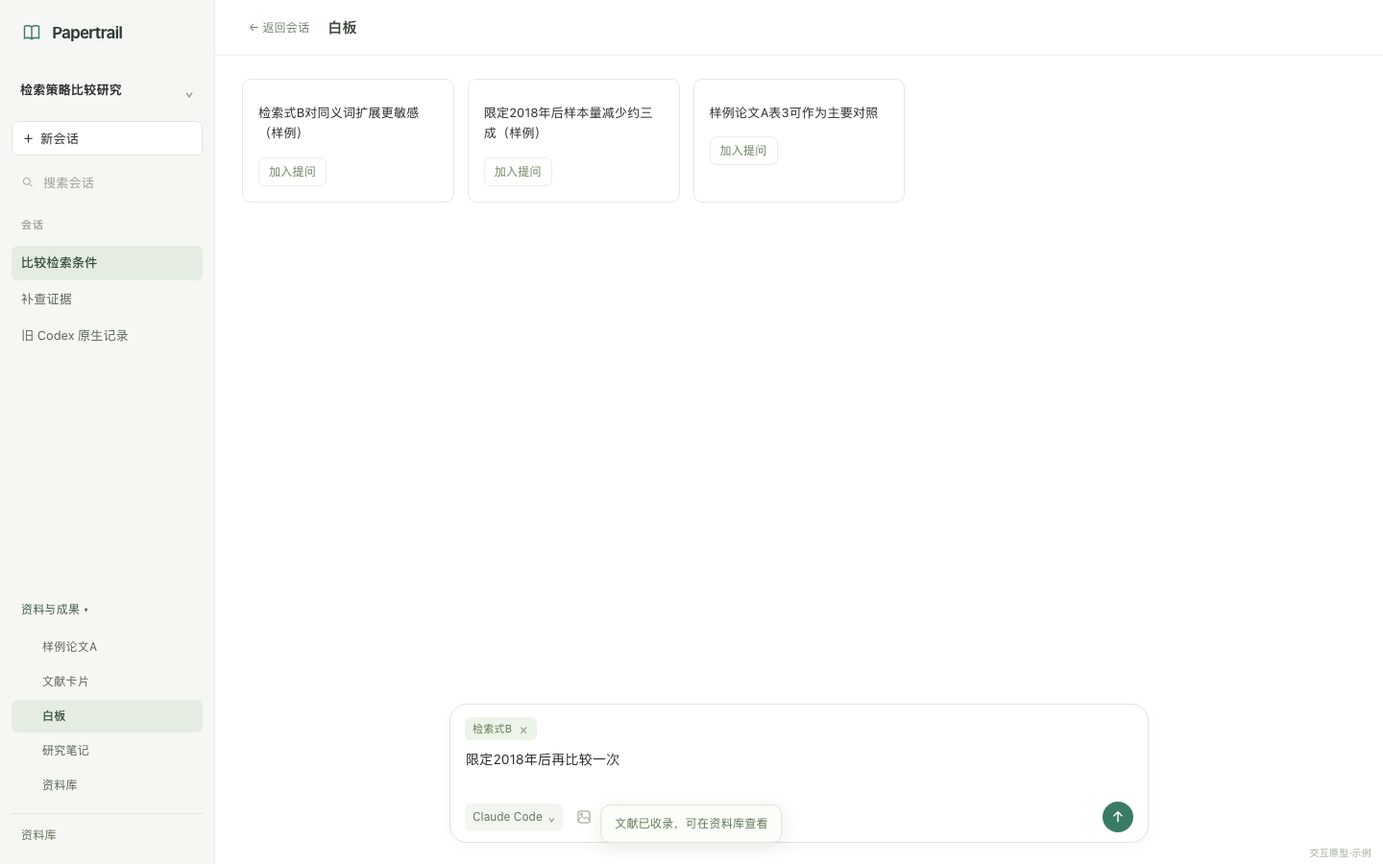
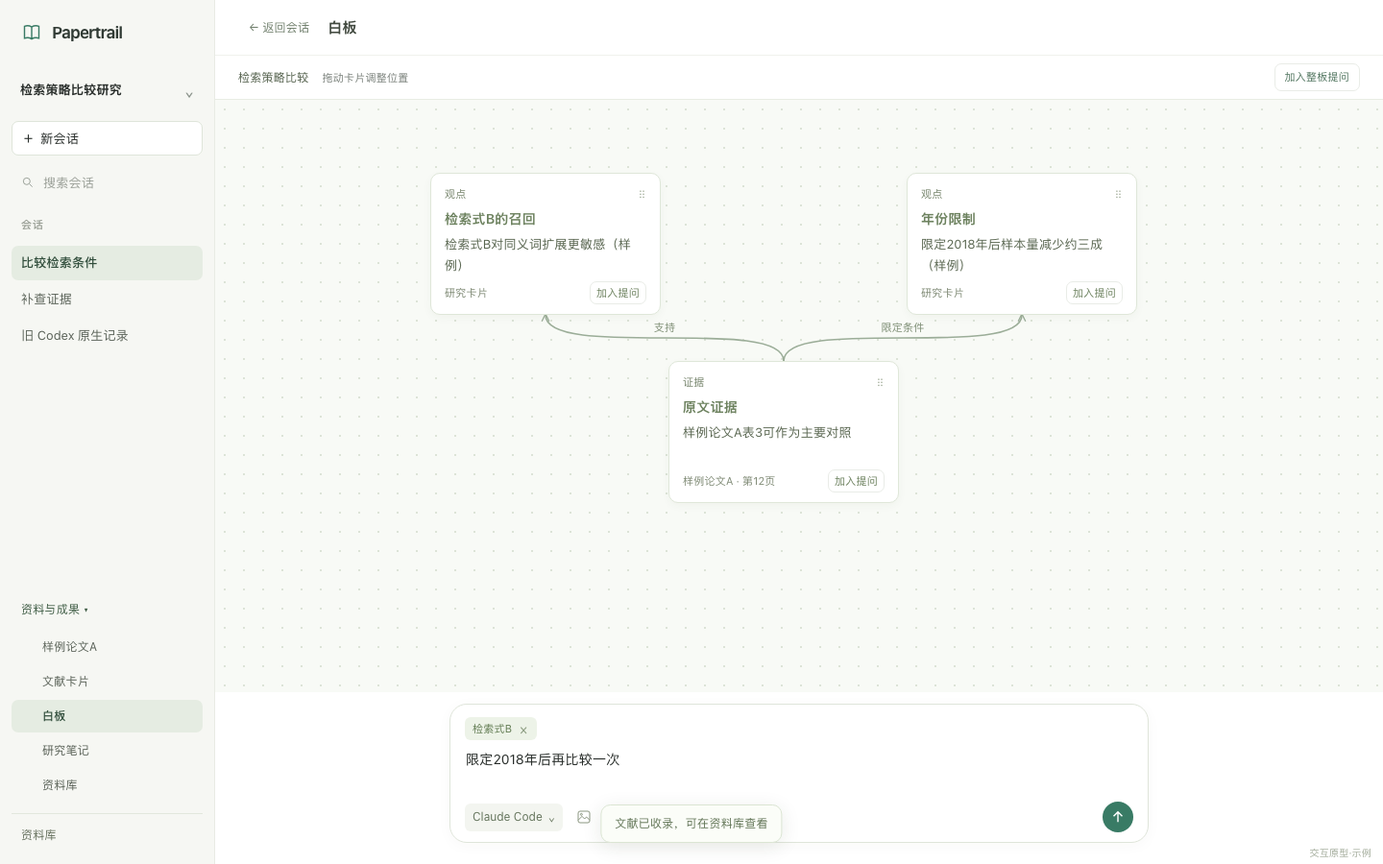
Make prototype whiteboard open cards and preserve question context

diff --git a/docs/agent-native-evolution/conversation-redesign/prototype.js b/docs/agent-native-evolution/conversation-redesign/prototype.js
@@ -2,7 +2,8 @@
 const $=s=>document.querySelector(s),E=s=>String(s).replace(/[&<>"]/g,c=>'&#'+c.charCodeAt(0)+';'),cl=n=>Math.max(1,Math.min(20,n));
 let nid=4,oc=0,opener=null,noticeTimer,doc='研究笔记（样例）\n\n一、检索式A与B在未限定年份时召回接近。\n二、待补：限定年份后的对照。';
 const st={cur:1,view:'chat',ref:0,page:12,ret:null,rs:'0'};
-const board=[{x:'检索式B对同义词扩展更敏感（样例）'},{x:'限定2018年后样本量减少约三成（样例）'},{x:'样例论文A表3可作为主要对照'}];
+const board=[{t:'检索式B的召回',x:'检索式B对同义词扩展更敏感（样例）',left:96,top:64},{t:'年份限制',x:'限定2018年后样本量减少约三成（样例）',left:592,top:64},{t:'原文证据',x:'样例论文A表3可作为主要对照',left:344,top:260}];
+const boardView={left:0,top:0,scale:1,card:0};
 const A=(x,a)=>({r:'a',a,st:'ok',x});
 const S=[
 {id:1,rs:'0',t:'比较检索条件',a:'Claude Code',m:[{r:'u',x:'比较检索式A和B在近五年文献中的召回差异'},A('初步看B召回更高，需要核对限定年份后的结果。','Codex')],d:'限定2018年后再比较一次',g:['检索式B']},
@@ -20,25 +21,30 @@ function bottom(){const v=$('#V');v.scrollTop=v.scrollHeight;cur().scroll=v.scro
 const quote=n=>n==12?'表3（样例数据）：限定2018年后，检索式B召回0.81，检索式A召回0.66。作者指出差异主要来自同义词扩展。':n==4?'方法（样例）：检索式A为标题关键词组合；检索式B加入同义词与主题词扩展。':`样例论文A第${n}页的示例正文，合成文本，仅用于演示阅读与引用。`;
 const pg=n=>`<div class=paper-kicker>RESEARCH NOTE · 示例文献</div><h3>检索扩展与证据覆盖</h3><p>本页比较两种检索策略在相同年份限制下的结果，并讨论它们的适用条件。</p><p><mark>${quote(n)}</mark></p><p>不同数据库与去重方式可能改变结果，跨任务比较仍需补充对照。</p><div class=paper-page>PDF 第 ${n} 页</div>`;
 const ANS=`<p><b>结论</b>：限定2018年后，检索式B召回仍高于A（0.81 对 0.66）。</p><ul><li>差异主要来自同义词扩展。</li><li>样本量下降，建议在另一数据库补查。</li></ul><p>依据 <button class=cite data-act=cite data-p=12>样例论文A · PDF第12页 ↗</button></p>`;
-const RES={pdf:'样例论文A',card:'文献卡片',board:'白板',doc:'研究笔记',library:'资料库'};
+const RES={pdf:'样例论文A',card:'文献卡片',board:'白板','board-card':'白板卡片',doc:'研究笔记',library:'资料库'};
 S[0].m[1].h='<p><b>检索式B的召回更高，但还不能直接把它当成更可靠的结论。</b></p><p>样例论文A的对照结果是B为0.81、A为0.66；实验中同时改变了同义词扩展，需把“检索数量”和“相关性”分开比较。</p><ul><li>先确认两组使用相同的年份、数据库与去重条件。</li><li>把不相关文献的比例作为独立变量再比较一次。</li></ul><p>核对依据 <button class="cite" data-act="cite" data-p="12">样例论文A · PDF第12页 ↗</button></p>';
 function candidate(){return '<div class="source-result"><div><strong>检索扩展的跨库对照（样例B）</strong><span class="mut">题录与摘要 · 尚无全文</span></div><button data-act="keep" '+(collected?'disabled':'')+'>'+(collected?'已收录':'收录文献')+'</button></div>'}
 
+function boardLinks(){const [a,b,c]=board,point=n=>[n.left+120,n.top];return [a,b].map((n,i)=>{const [x,y]=point(n),[cx,cy]=point(c);return `<path d="M ${cx} ${cy} C ${cx} ${cy-48}, ${x} ${y+196}, ${x} ${y+148}" marker-end="url(#board-arrow)"/><text x="${(cx+x)/2}" y="${(cy+y+148)/2-7}" text-anchor="middle">${i?'限定条件':'支持'}</text>`}).join('')}
+function boardCanvas(){return `<div class="board-wrap"><div class="board-toolbar"><span>检索策略比较</span><span class=mut>拖动卡片调整位置</span><button data-act=add data-t="研究白板" data-card=all>加入整板提问</button></div><div id=board-viewport tabindex=0 aria-label="白板画布"><div id=board-space><div class="cards board-stage" id=board-canvas><svg class=board-links viewBox="0 0 960 440" aria-label="卡片关系"><defs><marker id=board-arrow viewBox="0 0 10 10" refX=8 refY=5 markerWidth=6 markerHeight=6 orient=auto-start-reverse><path d="M 1 1 L 9 5 L 1 9"/></marker></defs><g id=board-paths>${boardLinks()}</g></svg>${board.map((b,i)=>`<article class="card board-node" data-node=${i} style="left:${b.left}px;top:${b.top}px"><div class=board-node-head data-drag=${i}><span class=board-kind>${i==2?'证据':'观点'}</span><span aria-hidden=true>⠿</span></div><button class=board-open data-act=boardcard data-i=${i} aria-label="打开卡片：${E(b.t)}"><strong>${E(b.t)}</strong><p>${E(b.x)}</p></button><div class=board-node-foot><span>${i==2?'样例论文A · 第12页':'研究卡片'}</span><button data-act=add data-t="白板卡片${i+1}" data-card=${i}>加入提问</button></div></article>`).join('')}</div></div></div></div>`}
+function fitBoard(){const v=$('#board-viewport');if(!v)return;boardView.scale=Math.min(1,Math.max(.85,Math.min((v.clientWidth-32)/960,(v.clientHeight-24)/440)));$('#board-canvas').style.transform=`scale(${boardView.scale})`;$('#board-space').style.width=960*boardView.scale+'px';$('#board-space').style.height=440*boardView.scale+'px';v.scrollLeft=boardView.left;v.scrollTop=boardView.top}
+function rememberBoard(){const v=$('#board-viewport');if(v){boardView.left=v.scrollLeft;boardView.top=v.scrollTop}}
 function rows(){const q=$('#q').value.trim(),L=S.filter(s=>s.rs==st.rs&&s.t.includes(q));
 $('#rows').innerHTML=L.length?L.map(s=>`<button class="row${s.id==st.cur?' on':''}${s.un?' un':''}" data-act=go data-id=${s.id} aria-label="${E(s.t)}${s.un?'，有新回复':''}${s.run?'，处理中':''}"${s.id==st.cur?' aria-current=true':''}><span>${E(s.t)}</span>${s.run?'<i class=sp></i>':s.un?'<i class=dot></i>':''}</button>`).join(''):'<div class=mut style="padding:6px 8px">没有匹配的会话</div>';
-$('#lib').innerHTML=Object.entries(RES).map(([k,v])=>`<button class="row${st.view==k?' on':''}" data-act=open data-v=${k}><span>${v}</span></button>`).join('')}
+$('#lib').innerHTML=Object.entries(RES).filter(([k])=>k!='board-card').map(([k,v])=>`<button class="row${st.view==k?' on':''}" data-act=open data-v=${k}><span>${v}</span></button>`).join('')}
 function msg(m,i){if(m.r=='u')return`<div class=u>${E(m.x)}${m.g&&m.g.length?'<div>'+m.g.map(t=>`<span class=chip>${E(t)}</span>`).join('')+'</div>':''}</div>`;
 return`<div class=a id=m${i}><div class=n>${E(m.a)}</div>${m.st=='run'?'<p class=mut role="status">正在查阅资料…</p>':['fail','stopped'].includes(m.st)?`<p class=err>${m.st=='stopped'?'已停止，已完成内容保留。':'连接中断，尚未完成。'} <button data-act=retry data-i=${i}>重试</button></p>`:m.h?m.h+candidate():`<p>${E(m.x)}</p>`}</div>`}
 function res(v){if(v=='library')return `<div class=w><p class=mut>本研究资料</p><div class=source-result><div><strong>样例论文A</strong><span class=mut>已保存 PDF</span></div><button data-act=open data-v=pdf>阅读</button></div>${collected?'<div class=source-result><div><strong>检索扩展的跨库对照（样例B）</strong><span class=mut>已收录 · 题录与摘要</span></div><button data-act=open data-v=card>查看</button></div>':'<p class=mut>会话里收录的文献会出现在这里。</p>'}</div>`;if(v=='pdf')return`<div class=w><div class=bar><button data-act=pg data-d=-1 aria-label="上一页">‹</button><span>第 ${st.page} / 20 页</span><button data-act=pg data-d=1 aria-label="下一页">›</button><button data-act=add data-t="样例论文A·第${st.page}页">加入本页提问</button></div><div class=pg>${pg(st.page)}</div></div>`;
-if(v=='board')return`<div class=cards>${board.map((b,i)=>`<div class=card><p>${E(b.x)}</p><button data-act=add data-t="白板卡片${i+1}">加入提问</button></div>`).join('')}</div>`;
+if(v=='board')return boardCanvas();
+if(v=='board-card'){const i=boardView.card,b=board[i];return `<div class="w board-card-detail"><p class=mut>${i==2?'原文证据':'研究卡片'}</p><h2>${E(b.t)}</h2><textarea id=board-card-body aria-label="卡片正文">${E(b.x)}</textarea><div class=board-detail-foot><button data-act=add data-t="白板卡片${i+1}" data-card=${i}>加入提问</button><button class=cite data-act=cite data-p=12>样例论文A · PDF第12页 ↗</button><span class=mut>修改已保留 · 本次演示</span></div></div>`}
 if(v=='doc')return`<div class=w style="max-width:none"><div class=bar style="margin-bottom:8px"><span class=mut>自动保存</span><button data-act=add data-t="研究笔记（文稿）">加入提问</button></div><textarea id=doc aria-label="文稿正文">${E(doc)}</textarea></div>`;
 return`<div class=w><div class=card><b>样例论文A</b><p class=mut>样例 · 作者甲、作者乙 · 2021 · 自制样例，无DOI</p><p>研究检索式扩展对召回的影响。</p><button data-act=cite data-p=1>打开PDF</button></div></div>`}
 function main(){const s=cur(),v=st.view;let h='<button class=tg data-act=nav aria-label="展开侧栏">☰</button>';
 if(v=='chat'){const r=s.ret?.v;if(r)h+=`<button class=return-link data-act=return>← 回到${RES[r]}</button>`;h+=`<h1>${E(s.t)}</h1>`;
 $('#V').innerHTML=`<div class=w id=thread>${s.m.map(msg).join('')||'<div class=empty-chat><h2>想弄清楚什么？</h2><p class=mut>从一个问题开始，资料和结果都留在这段对话里。</p></div>'}</div>`}
-else{h+=`<button class=return-link data-act=chat>← 返回会话${s.un?' · 新回复':''}</button><h1>${RES[v]}</h1>`;$('#V').innerHTML=res(v)}
-$('#hd').innerHTML=h;$('#to').innerHTML='';if(v=='chat')$('#V').scrollTop=s.scroll||0;chips();bar()}
-function chips(){$('#chips').innerHTML=cur().g.map((t,i)=>`<span class=chip>${E(t)}<button data-act=rm data-i=${i} aria-label="移除${E(t)}">×</button></span>`).join('')}
+else{h+=v=='board-card'?`<button class=return-link data-act=boardback>← 返回白板</button><h1>${E(board[boardView.card].t)}</h1>`:`<button class=return-link data-act=chat>← 返回会话${s.un?' · 新回复':''}</button><h1>${RES[v]}</h1>`;$('#V').innerHTML=res(v)}
+$('#hd').innerHTML=h;$('#to').innerHTML='';if(v=='chat')$('#V').scrollTop=s.scroll||0;chips();bar();if(v=='board')fitBoard()}
+function chips(){$('#chips').innerHTML=cur().g.map((t,i)=>`<span class=chip><span title="${E(t)}">${E(t)}</span><button data-act=rm data-i=${i} aria-label="移除${E(t)}">×</button></span>`).join('')}
 function bar(){const s=cur();$('#ab').innerHTML=E(s.a)+' <span aria-hidden="true">⌄</span>';$('#ab').disabled=!!s.run;$('#hint').textContent='';$('#sb').innerHTML=s.run?'■':sendIcon;$('#sb').setAttribute('aria-label',s.run?'停止回答':'发送');$('#sb').disabled=!s.run&&!ta.value.trim();$('#latest').hidden=!s.un;}
 function ref(){const R=$('#R');document.body.classList.toggle('ro',!!st.ref);$('#G').classList.toggle('nr',!st.ref);R.hidden=!st.ref;if(!st.ref)return;
 R.innerHTML=`<div class=rh><b>样例论文A <span class=mut>· 第${st.ref}页</span></b><button data-act=full>全文阅读</button><button data-act=add data-t="样例论文A·第${st.ref}页">加入提问</button><button data-act=x aria-label="关闭原文">×</button></div><div style="overflow:auto"><div class=pg>${pg(st.ref)}</div><div class=bar style="padding:0 12px"><button data-act=rp data-d=-1 aria-label="上一页">‹</button><button data-act=rp data-d=1 aria-label="下一页">›</button></div></div>`}
@@ -53,21 +59,23 @@ const act={
 go(b){st.cur=+b.dataset.id;st.view='chat';const s=cur(),u=s.un;s.un=0;ta.value=s.d;st.ref=smallScreen()?0:s.reference||0;openMenu(0);closeNav();render();const as=document.querySelectorAll('#V .a');u&&as.length?as[as.length-1].scrollIntoView({block:'start'}):($('#V').scrollTop=s.scroll||0)},
 new(){const s={id:++nid,rs:st.rs,t:'新会话',a:cur().a,m:[],d:'',g:[]};S.unshift(s);act.go({dataset:{id:s.id}});ta.focus()},
 lib(b){const l=$('#lib'),o=l.hidden;l.hidden=!o;b.setAttribute('aria-expanded',o);b.textContent='资料与成果 '+(o?'▾':'▸')},
-open(b){if(st.view=='chat')cur().scroll=$('#V').scrollTop;st.view=b.dataset.v;if(st.view=='pdf'&&st.ref){st.page=st.ref;st.ref=0}if(['board','doc','library'].includes(st.view))st.ref=0;closeNav();render();$('#V').scrollTop=0},
-chat(){st.view='chat';const unread=cur().un;cur().un=0;st.ref=smallScreen()?0:cur().reference||0;render();if(unread)bottom()},
+open(b){rememberBoard();if(st.view=='chat')cur().scroll=$('#V').scrollTop;st.view=b.dataset.v;if(st.view=='pdf'&&st.ref){st.page=st.ref;st.ref=0}if(['board','doc','library'].includes(st.view))st.ref=0;closeNav();render();$('#V').scrollTop=0},
+boardcard(b){rememberBoard();boardView.card=+b.dataset.i;st.view='board-card';render();$('#board-card-body').focus()},
+boardback(){st.view='board';st.ref=0;render()},
+chat(){rememberBoard();st.view='chat';const unread=cur().un;cur().un=0;st.ref=smallScreen()?0:cur().reference||0;render();if(unread)bottom()},
 cite(b){opener=b;st.ref=+b.dataset.p;cur().reference=st.ref;closeNav();ref();$('#R [data-act=x]').focus()},
 full(){cur().scroll=$('#V').scrollTop;st.page=st.ref;st.ref=0;st.view='pdf';render()},
 x(){st.ref=0;cur().reference=0;ref();(opener&&document.contains(opener)?opener:ta).focus()},
 rp(b){st.ref=cl(st.ref+ +b.dataset.d);cur().reference=st.ref;ref()},
 pg(b){st.page=cl(st.page+ +b.dataset.d);main()},
-add(b){const g=cur().g,t=b.dataset.t;if(!g.includes(t))g.push(t);chips();b.textContent='已加入'},
+add(b){const g=cur().g,i=b.dataset.card,t=i=='all'?'研究白板：'+board.map(n=>n.t+'：'+n.x).join('；'):i!==undefined?b.dataset.t+' · '+board[+i].x:b.dataset.t;if(!g.includes(t))g.push(t);chips();b.textContent='已加入'},
 rm(b){cur().g.splice(+b.dataset.i,1);chips();ta.focus()},
 menu(){openMenu($('#menu').hidden)},
 pick(b){cur().a=b.dataset.n;openMenu(0);bar();$('#ab').focus()},
 conn(){oc=1;openMenu(1);notice('示例连接已就绪')},
 fork(b){const s=cur(),n={id:++nid,rs:s.rs,t:s.t+' · '+b.dataset.n,a:b.dataset.n,m:[],d:ta.value,g:[...s.g]};S.splice(S.indexOf(s)+1,0,n);act.go({dataset:{id:n.id}});ta.focus()},
 send(){const s=cur(),x=ta.value.trim();if(s.run){clearTimeout(s.timer);s.run=0;const m=s.m.at(-1);m.st='stopped';render();return}if(!x)return;if(!s.m.length&&s.t=='新会话')s.t=x.slice(0,24);s.m.push({r:'u',x,g:s.g});s.g=[];s.d='';ta.value='';
-if(st.view!='chat'){s.ret={v:st.view,page:st.page,scroll:$('#V').scrollTop};if(st.view=='pdf'){st.ref=st.page;s.reference=st.ref}else{st.ref=0;s.reference=0}st.view='chat'}
+if(st.view!='chat'){rememberBoard();s.ret={v:st.view,page:st.page,scroll:$('#V').scrollTop};if(st.view=='pdf'){st.ref=st.page;s.reference=st.ref}else{st.ref=0;s.reference=0}st.view='chat'}
 if(smallScreen())st.ref=0;const m={r:'a',a:s.a,f:/模拟失败/.test(x)};s.m.push(m);run(s,m);render();bottom();ta.focus()},
 retry(b){const s=cur();run(s,s.m[+b.dataset.i]);render()},
 keep(){if(collected)return;collected=true;const top=$('#V').scrollTop;main();$('#V').scrollTop=top;notice('文献已收录，可在资料库查看')},
@@ -83,7 +91,13 @@ document.addEventListener('click',e=>{const b=e.target.closest('[data-act]');if(
 if($('#L').classList.contains('on')&&!e.target.closest('#L')&&!(b&&b.dataset.act=='nav'))closeNav();if(b&&!b.disabled&&act[b.dataset.act])act[b.dataset.act](b)});
 document.addEventListener('keydown',e=>{if(e.key=='Escape'){if(!$('#research-menu').hidden){$('#research-menu').hidden=true;$('#rs').setAttribute('aria-expanded',false);$('#rs').focus()}else if(!$('#menu').hidden){openMenu(0);$('#ab').focus()}else if(st.ref)act.x();else closeNav(1)}
 if(e.key=='Enter'&&!e.shiftKey&&e.target==ta&&!e.isComposing){e.preventDefault();act.send()}});
-document.addEventListener('input',e=>{if(e.target.id=='doc')doc=e.target.value});
+document.addEventListener('input',e=>{if(e.target.id=='doc')doc=e.target.value;if(e.target.id=='board-card-body')board[boardView.card].x=e.target.value});
+let drag=null;
+document.addEventListener('pointerdown',e=>{const handle=e.target.closest('[data-drag]');if(!handle||e.button!==0)return;const i=+handle.dataset.drag;drag={handle,i,x:e.clientX,y:e.clientY,left:board[i].left,top:board[i].top};handle.setPointerCapture(e.pointerId);handle.closest('.board-node').classList.add('dragging');e.preventDefault()});
+document.addEventListener('pointermove',e=>{if(!drag)return;const b=board[drag.i];b.left=Math.max(8,Math.min(712,drag.left+(e.clientX-drag.x)/boardView.scale));b.top=Math.max(8,Math.min(284,drag.top+(e.clientY-drag.y)/boardView.scale));const n=drag.handle.closest('.board-node');n.style.left=b.left+'px';n.style.top=b.top+'px';$('#board-paths').innerHTML=boardLinks()});
+function stopDrag(){if(drag){drag.handle.closest('.board-node').classList.remove('dragging');drag=null}}
+document.addEventListener('pointerup',stopDrag);document.addEventListener('pointercancel',stopDrag);
+new ResizeObserver(()=>{if(st.view=='board')fitBoard()}).observe($('#V'));
 ta.oninput=()=>{cur().d=ta.value;bar()};$('#q').oninput=rows;
 
 ta.value=cur().d;render();

diff --git a/docs/agent-native-evolution/conversation-redesign/prototype.css b/docs/agent-native-evolution/conversation-redesign/prototype.css
@@ -167,6 +167,8 @@ input, textarea { min-width: 0; }
 .chip { display: inline-flex; align-items: center; gap: 3px; max-width: 100%; padding: 3px 5px 3px 8px; border-radius: 6px; background: #edf3e8; color: #627c53; font-size: 11px; line-height: 1.5; }
 .chip button { width: 18px; min-height: 18px; height: 18px; padding: 0; border: 0; border-radius: 4px; background: transparent; color: #8a9b7f; font-size: 14px; }
 .chip button:hover { border: 0; background: #e0e9d8; color: #506a43; }
+.chip > span { min-width: 0; overflow: hidden; text-overflow: ellipsis; white-space: nowrap; }
+.chip > button { flex: none; }
 #ta { display: block; width: 100%; height: 51px; min-height: 44px; max-height: 180px; margin: 0 0 6px; padding: 0 1px; border: 0; background: transparent; outline: 0; resize: none; font-size: 14px; line-height: 1.8; }
 #ta:focus-visible { outline: 0; }
 .bar { display: flex; align-items: center; gap: 8px; min-width: 0; }
@@ -220,6 +222,35 @@ input, textarea { min-width: 0; }
 .card { padding: 16px; border: 1px solid #e5e9df; border-radius: 9px; background: #fff; font-size: 13px; }
 .card p { margin: 8px 0 14px; }
 .card button { min-height: 27px; color: #6d825f; font-size: 12px; }
+.board-wrap { display: flex; flex-direction: column; height: 100%; min-height: 400px; background: #f8faf6; }
+.board-toolbar { display: flex; align-items: center; flex: none; gap: 14px; min-height: 46px; padding: 8px 24px; border-bottom: 1px solid #e8ece3; background: #fff; color: #576450; font-size: 12px; }
+.board-toolbar .mut { font-size: 11px; }
+.board-toolbar > button { margin-left: auto; min-height: 27px; font-size: 11px; color: #527660; }
+#board-viewport { flex: 1; min-height: 0; overflow: auto; padding: 12px 16px; background-image: radial-gradient(#dce3d7 .8px, transparent .8px); background-size: 20px 20px; }
+#board-space { position: relative; margin: 0 auto; }
+.cards.board-stage { position: absolute; display: block; width: 960px; height: 440px; padding: 0; transform-origin: top left; }
+.board-links { position: absolute; inset: 0; width: 100%; height: 100%; overflow: visible; pointer-events: none; }
+.board-links path { fill: none; stroke: #9bad98; stroke-width: 1.6; }
+.board-links marker path { stroke: #9bad98; stroke-width: 1.4; }
+.board-links text { fill: #7e8e75; stroke: #f8faf6; stroke-width: 6px; paint-order: stroke; font-size: 11px; }
+.board-node { position: absolute; width: 240px; height: 148px; padding: 12px 14px; border-color: #dfe7d9; border-radius: 10px; box-shadow: 0 3px 10px rgb(50 70 35 / 4%); }
+.board-node:hover { border-color: #abc2a5; box-shadow: 0 4px 16px rgb(50 70 35 / 7%); }
+.board-node.dragging { z-index: 2; box-shadow: 0 8px 22px rgb(50 70 35 / 12%); }
+.board-node-head { display: flex; justify-content: space-between; align-items: center; height: 19px; color: #a2ad99; cursor: grab; touch-action: none; user-select: none; }
+.board-node-head:active { cursor: grabbing; }
+.board-kind { color: #78866e; font-size: 11px; }
+.board-node .board-open { display: block; width: 100%; min-height: 0; margin: 4px 0 0; padding: 0; border: 0; border-radius: 3px; background: transparent; text-align: left; }
+.board-node .board-open:hover { background: transparent; color: #397b65; }
+.board-open strong { font-size: 14px; font-weight: 600; }
+.board-open p { display: -webkit-box; overflow: hidden; margin: 5px 0 0; -webkit-line-clamp: 2; -webkit-box-orient: vertical; color: #596650; font-size: 13px; line-height: 1.65; }
+.board-node-foot { position: absolute; inset: auto 14px 10px; display: flex; align-items: center; justify-content: space-between; gap: 8px; color: #7f8a75; font-size: 11px; }
+.board-node-foot button { min-height: 24px; padding: 2px 6px; font-size: 11px; }
+.board-card-detail { padding-top: 38px; }
+.board-card-detail h2 { margin: 8px 0 24px; font-size: 22px; font-weight: 600; }
+#board-card-body { display: block; width: 100%; min-height: 200px; padding: 18px 20px; border: 1px solid #e0e7da; border-radius: 9px; background: #fbfcf9; font-size: 15px; line-height: 1.9; resize: vertical; }
+.board-detail-foot { display: flex; flex-wrap: wrap; align-items: center; gap: 14px; margin-top: 18px; }
+.board-detail-foot > button { font-size: 12px; }
+.board-detail-foot > .mut { margin-left: auto; font-size: 11px; }
 #doc { width: 100%; height: calc(100vh - 290px); min-height: 250px; padding: 28px; border: 1px solid #e4e9de; border-radius: 9px; background: #fff; font-size: 15px; line-height: 1.9; resize: none; }
 #tag { position: fixed; right: 12px; bottom: 4px; z-index: 3; color: #a1aa99; font-size: 10px; line-height: 1.6; pointer-events: none; }
 .prototype-notice { position: fixed; z-index: 40; bottom: 22px; left: 50%; width: max-content; max-width: min(480px, calc(100vw - 32px)); padding: 9px 14px; transform: translateX(-50%); border: 1px solid #dbe5d3; border-radius: 10px; background: #fbfdf8; box-shadow: 0 4px 20px rgb(43 58 30 / 10%); color: #627557; font-size: 12px; }

diff --git a/docs/agent-native-evolution/conversation-redesign/verification/board-open/README.md b/docs/agent-native-evolution/conversation-redesign/verification/board-open/README.md
@@ -1,0 +1,28 @@
+# 白板打开与提问验收
+
+本目录验证可点击原型的白板入口、正文编辑、卡片移动与提问返回路径。使用本地合成卡片和固定示例回答；不验证生产 Excalidraw、真实 AI 调用、原生助手连接或磁盘持久化。刷新页面后示例状态会恢复。
+
+运行方式（先在项目中启动 5173 端口的开发服务）：
+
+```sh
+node docs/agent-native-evolution/conversation-redesign/verify-board-prototype.mjs
+```
+
+检查包括：
+
+- 1440×900、1280×800、1024×800 实际进入关系画布，显示三张卡片与连线，正文可独立打开。
+- 编辑卡片正文，返回白板再打开，内容保留。
+- 拖动卡片后连线随之改变；打开正文、发问及返回白板后位置保留。
+- “加入提问”保存当时的正文快照；后续编辑不自动更换已选上下文，发送后可以回到白板并看到后续编辑。
+- 记录浏览器运行错误，阻止并记录非本地请求。
+
+本轮定稿验证 **6/6 通过**，浏览器运行错误 **0**，非本地请求 **0**。拖动位置以卡片自身的设计空间坐标及连线路径核对，避免把画布适应视口后的缩放差异误判为位置丢失。
+
+运行结果见 [results.json](results.json)。关键截图：
+
+- [1440×900 关系画布](board-1440x900.png)
+- [1280×800 关系画布](board-1280x800.png)
+- [1024×800 关系画布](board-1024x800.png)
+- [打开并编辑正文](card-open-edited.png)
+- [拖动、发问并返回白板](board-after-drag-chat-return.png)
+- [正文快照进入会话](card-context-snapshot-in-chat.png)

diff --git a/docs/agent-native-evolution/conversation-redesign/README.md b/docs/agent-native-evolution/conversation-redesign/README.md
@@ -26,6 +26,8 @@
 
 还可体验停止、失败重试、迟到回复不抢当前页面、“查看新回复”、文献收录到资料库与去重。图片和语音按钮只是设计入口示例。
 
+2026-10-23 白板补正：用户指出白板只能加入提问。原稿此前确实只是三张静态卡片清单，不能充当白板展示。现已补为有关系连线的画布：从“资料与成果 → 白板”打开，点击卡片正文可展开、修改并返回；拖动卡片上沿调整位置，连线跟随。单卡与整板的“加入提问”是独立动作，保存当时正文快照，发送后可回到原白板位置。本次新增范围与三尺寸截图见[白板专项验收](verification/board-open/README.md)；这次补正未再次送 Claude 审查，之前7轮结论的范围不扩大。
+
 ## 先确认旧问题
 
 以0.1.14源码、全新浏览器上下文、五个合成会话和示例PDF复现：PDF下发送后，中央仍是PDF，完整回答没有出现在中央；底部只说“会话已有回复，可返回继续”。原列表每行实测 **127.875px**，另有10px间距；新稿36px约减少72%的单行高度。原助手配置展开216px，含三段解释。

diff --git a/docs/agent-native-evolution/conversation-redesign/design.md b/docs/agent-native-evolution/conversation-redesign/design.md
@@ -21,6 +21,8 @@
 
 浏览原文不自动扩大问题范围。用户明确加入的选区才成为本轮材料；消息保留来源，点击可回到同页。回答中的文献提供直接查看／收录入口，避免搬运。长回答完整可读，执行记录默认收起。
 
+白板入口必须打开关系画布，不能用只有“加入提问”按钮的卡片清单代替。打开卡片与提问分开：点击正文查看和编辑，返回白板保留内容、摆放与视口；加入提问固定当时正文快照，后续编辑不改变已加入的材料。当前原型已补三张可打开、编辑和拖动的卡片及随动连线；完整绘图工具仍需接正式应用的已有 Excalidraw。
+
 ## 助手选择只做选择
 
 输入区只有一个助手按钮。菜单显示名称、当前勾选与必要连接状态，不展开实现说明段落。普通应用会话换助手时，话题、消息与当前输入保留；已发生的回答继续标注原助手，下一轮才使用新选择，不增加“以下由某某回复”的分隔通知。
